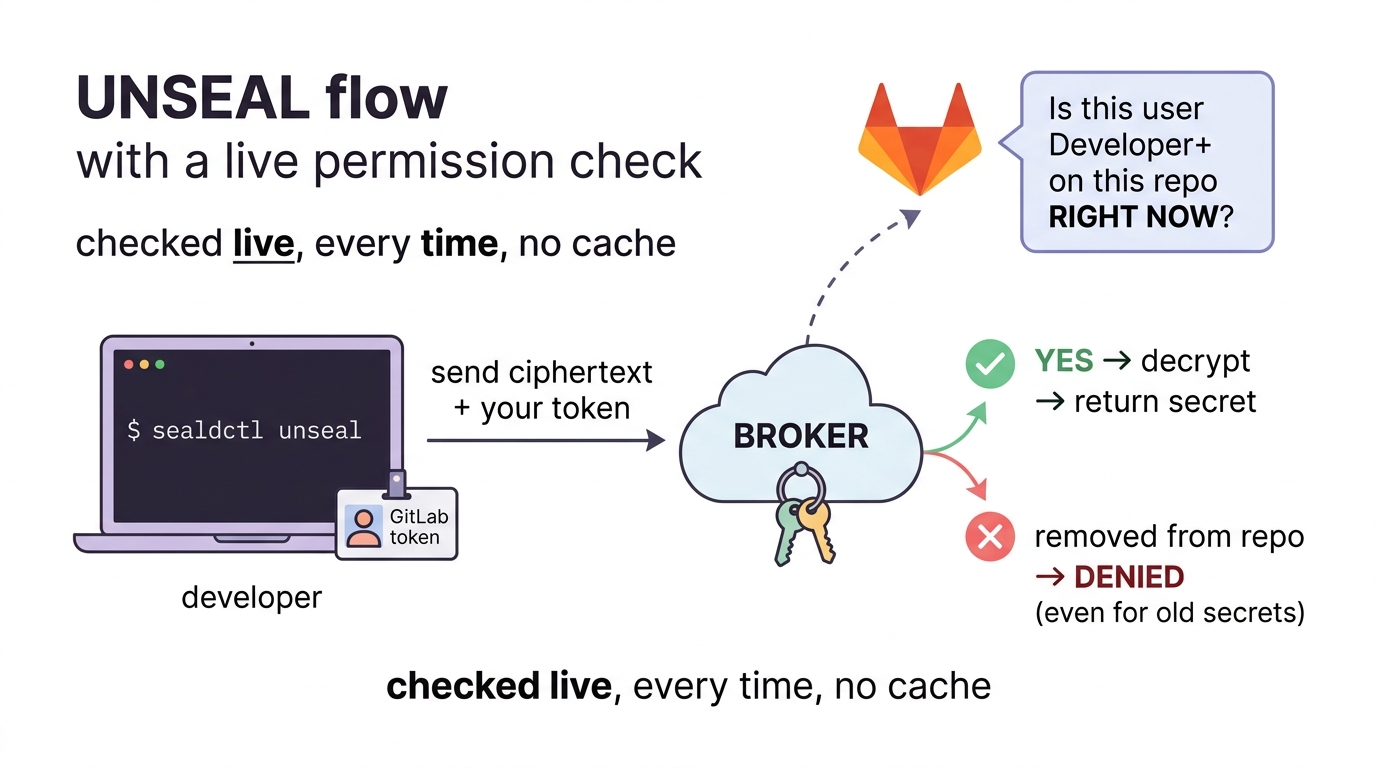
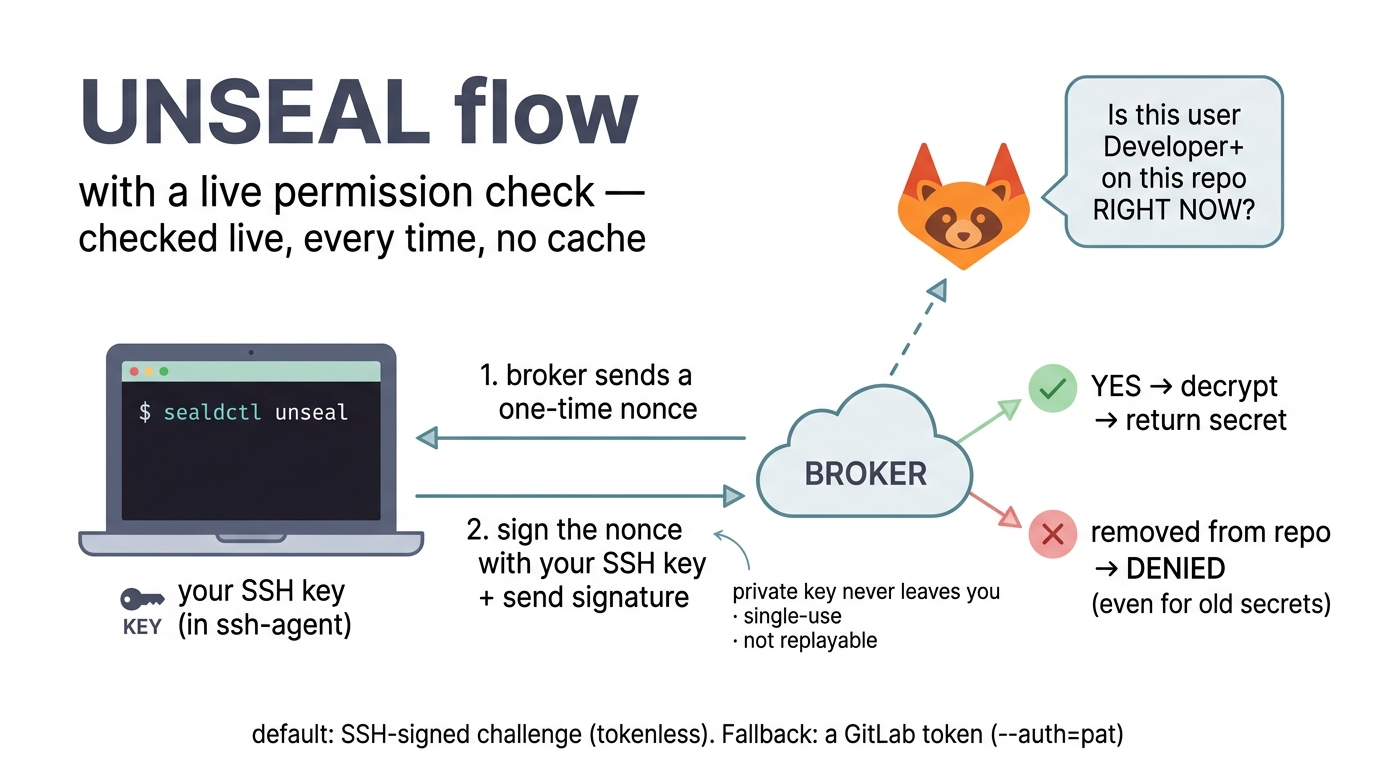
docs: lead with SSH-key auth (the actual default), token as fallback
unseal prefers SSH challenge-response (emitUnsealed 'Prefer SSH' path; both the flat
and --svc/--env flows route through it) and falls back to a GitLab PAT; --auth forces
either. The docs were token-centric and never mentioned SSH — the more natural, more
secure default (private key never leaves you, single-use signature, no manual key
registration: the broker maps your fingerprint via your GitLab profile keys).

- README: new 'How you authenticate' section; install leads with ssh-agent; config
  table adds SEALD_SSH_KEY; architecture bullet + FAQ reconciled.
- unseal-flow.png: redrawn as SSH-signed nonce challenge (token = fallback note).
- overview.png: auth badge now 'your SSH key (or GitLab token)'.

diff --git a/README.md b/README.md
@@ -85,35 +85,54 @@ You only ever touch one tool: **`sealdctl`** on your laptop.
 
 ![unseal flow](docs/img/unseal-flow.png)
 
-Your laptop never holds a decryption key — only your normal GitLab token. That's
-what makes revocation instant.
+Your laptop never holds a decryption key. You prove *who you are* with the SSH key you
+already use for git (preferred) — or a GitLab token as a fallback. Either way the broker
+re-checks your live membership, which is what makes revocation instant.
+
+### How you authenticate: SSH key (default) or token
+
+`unseal` prefers **SSH challenge-response** and falls back to a token:
+
+- **SSH key (default, recommended).** The broker sends a one-time nonce; `sealdctl` signs
+  it with your SSH key (via `ssh-agent` or `SEALD_SSH_KEY`) and returns the signature. The
+  private key never leaves your laptop, and the signed proof is single-use, so it can't be
+  replayed like a bearer token. **No registration:** the broker maps your key's
+  fingerprint to your GitLab identity by reading your project membership and your GitLab
+  **profile SSH keys** (`GET /users/:id/keys`) — so if the key is on your GitLab profile
+  and you're a project member, it just works.
+- **GitLab token (fallback).** If no SSH signer is found, `sealdctl` uses your GitLab PAT
+  (from `glab`, or `GITLAB_TOKEN`). Force either mode with `--auth=ssh` / `--auth=pat`.
 
 ## Install (developer)
 
-`sealdctl` is a single static binary. You also need a GitLab token, which you
-almost certainly already have via [`glab`](https://gitlab.com/gitlab-org/cli).
+`sealdctl` is a single static binary. For the default SSH flow you just need your git SSH
+key loaded in `ssh-agent` (you almost certainly already have this) and that key present on
+your GitLab profile.
 
 ```bash
-# 1. log in to GitLab once — this is the token sealdctl will use
-glab auth login --hostname gitlab.example.com   # your GitLab host
+# 1. make sure your GitLab SSH key is available (agent or an explicit path)
+ssh-add -l                    # should list the key you use for GitLab
+#    (or point sealdctl at a specific key: export SEALD_SSH_KEY=~/.ssh/id_ed25519)
 
 # 2. install sealdctl from source (needs Go 1.26+)
 go install github.com/dawnbreather/gitseal/cmd/sealdctl@latest
 
-# 3. verify it can see your token + the broker
+# 3. verify it can reach the broker + resolve your identity
 sealdctl doctor
-```
 
-`sealdctl doctor` prints `✓ GitLab PAT resolved`, your repo config, and the broker
-URL. If it can't find a token: `export GITLAB_TOKEN=glpat-...`.
+# (optional) token fallback if you'd rather not use SSH:
+glab auth login --hostname gitlab.example.com   # or: export GITLAB_TOKEN=glpat-...
+#    then run unseal with --auth=pat
+```
 
 Optional env knobs (sensible defaults baked in):
 
 | Var | Default | Meaning |
 |---|---|---|
 | `SEALD_BROKER` | `https://seald.example.com` | broker URL |
-| `SEALD_HOST` | `gitlab.example.com` | GitLab host for token lookup |
-| `GITLAB_TOKEN` | *(from glab)* | explicit token override |
+| `SEALD_SSH_KEY` | *(ssh-agent)* | explicit SSH key path for challenge-auth |
+| `SEALD_HOST` | `gitlab.example.com` | GitLab host (for the token fallback) |
+| `GITLAB_TOKEN` | *(from glab)* | explicit PAT for the token fallback |
 
 ## Setup (developer)
 
@@ -240,8 +259,9 @@ Deploy and operate the broker, manage keys, onboard repos, handle offboarding.
 
 ![architecture](docs/img/architecture.png)
 
-- **`sealdctl`** (laptop CLI) — seals offline; for unseal it forwards the user's
-  GitLab token + the ciphertext to the broker. Never holds a decryption key.
+- **`sealdctl`** (laptop CLI) — seals offline; for unseal it proves the user's identity
+  to the broker (SSH-signed challenge by default, or a GitLab token) alongside the
+  ciphertext. Never holds a decryption key.
 - **`sealdbroker`** (in-cluster) — stateless. Holds every repo's **private** key,
   each individually wrapped under its own KEK, so it only ever unwraps the one repo
   in the request. On every unseal it:
@@ -440,8 +460,9 @@ locks for two keyholders; intentional, not redundant.
 
 ## FAQ
 
-**Do I need a new account or password?** No — you use the GitLab token you already
-have (`glab`). That's the whole point.
+**Do I need a new account or password?** No — you authenticate with the SSH key you
+already use for git (or a GitLab token as a fallback). Nothing new to create. That's the
+whole point.
 
 **Can I seal a secret I'm not allowed to read?** Yes — sealing only needs the repo's
 public key, so you can contribute a value you can't read back. Harmless and intentional.